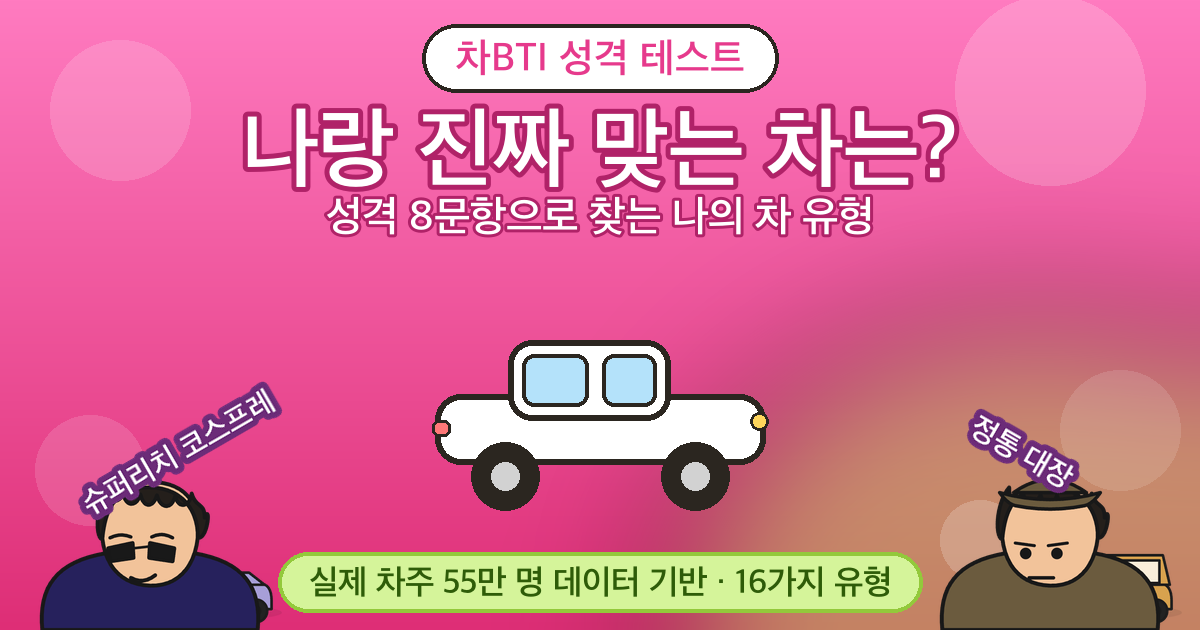
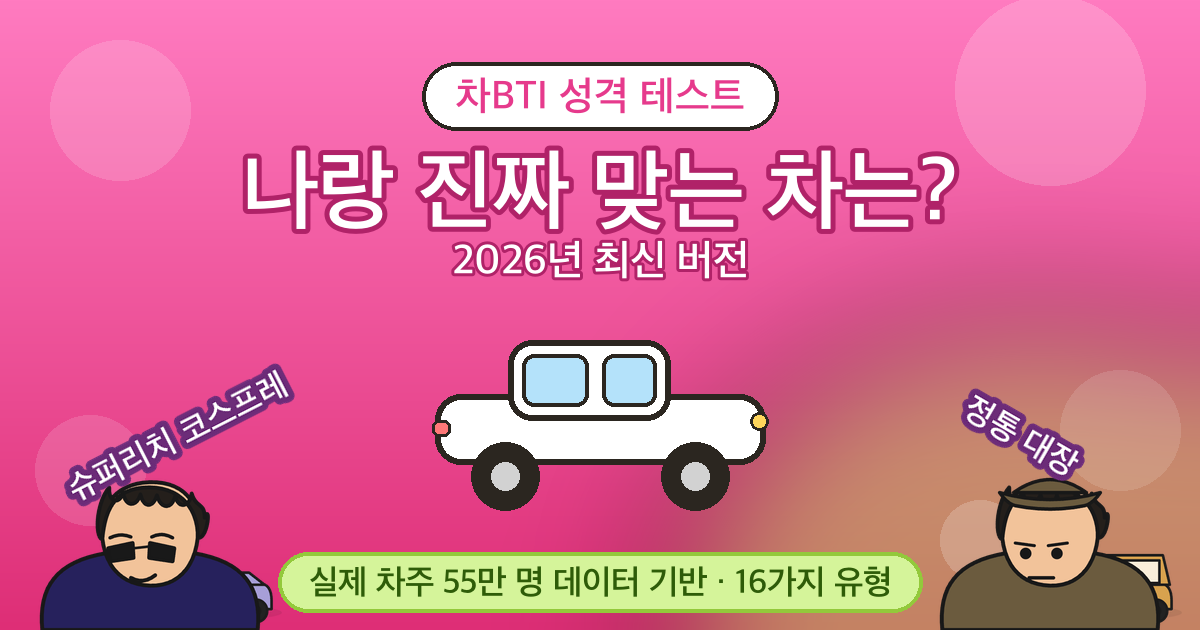
Add files via upload

Changed region(s): [[0.185, 0.0302, 0.8017, 0.4524], [0.0308, 0.573, 0.2467, 0.8444], [0.8017, 0.6032, 0.925, 0.7841]]

diff --git a/index.html b/index.html
@@ -6,17 +6,17 @@
 <title>차BTI · 나랑 맞는 차 찾기</title>
 <!-- 카카오톡/SNS 공유 미리보기(썸네일) -->
 <meta property="og:type" content="website"/>
-<meta property="og:url" content="https://chabti-test-comm.netlify.app/"/>
+<meta property="og:url" content="https://prnd-ops.github.io/comm-chabti/"/>
 <meta property="og:title" content="차BTI · 나랑 진짜 맞는 차는?"/>
 <meta property="og:description" content="성격 8문항으로 찾는 내 차 유형! 실제 차주 55만 명 데이터 기반 🚗 16가지 중 나는?"/>
-<meta property="og:image" content="https://chabti-test-comm.netlify.app/og.png?v=1"/>
+<meta property="og:image" content="https://prnd-ops.github.io/comm-chabti/og.png?v=4"/>
 <meta property="og:image:width" content="1200"/>
 <meta property="og:image:height" content="630"/>
 <meta property="og:image:type" content="image/png"/>
 <meta name="twitter:card" content="summary_large_image"/>
 <meta name="twitter:title" content="차BTI · 나랑 진짜 맞는 차는?"/>
 <meta name="twitter:description" content="성격 8문항으로 찾는 내 차 유형! 실제 차주 55만 명 데이터 기반"/>
-<meta name="twitter:image" content="https://chabti-test-comm.netlify.app/og.png?v=1"/>
+<meta name="twitter:image" content="https://prnd-ops.github.io/comm-chabti/og.png?v=4"/>
 <link rel="stylesheet" href="https://cdn.jsdelivr.net/gh/orioncactus/pretendard@v1.3.9/dist/web/static/pretendard.css"/>
 <link rel="preconnect" href="https://fonts.gstatic.com" crossorigin/>
 <link rel="stylesheet" href="https://fonts.googleapis.com/css2?family=Gaegu:wght@400;700&family=Black+Han+Sans&family=Jua&display=swap"/>
@@ -281,7 +281,7 @@ function landing(){
   +'<div style="text-align:center;margin:24px 0 22px"><span class="badge">📊 실제 차주 55만 명 데이터 기반</span></div>'
   +'<div class="ctawrap" style="display:flex;gap:9px;align-items:stretch">'
   +'<button class="cta glowcta" style="flex:1" onclick="start()">🚗 테스트 시작하기 →</button>'
-  +'<button onclick="shareInvite()" aria-label="공유하기" style="flex-shrink:0;width:62px;border:none;background:#FF85B8;color:#fff;font-family:var(--uiB);font-weight:700;cursor:pointer;border-bottom:6px dashed #D6347E;display:flex;flex-direction:column;align-items:center;justify-content:center;gap:2px;line-height:1.05"><svg viewBox="0 0 24 24" width="22" height="22" fill="none" stroke="currentColor" stroke-width="2.2" stroke-linecap="round" stroke-linejoin="round"><path d="M12 4V15"/><path d="M8 8l4-4 4 4"/><path d="M8 11H6a2 2 0 0 0-2 2v6a2 2 0 0 0 2 2h12a2 2 0 0 0 2-2v-6a2 2 0 0 0-2-2h-2"/></svg><span style="font-size:12px">공유</span></button>'
+  +'<button onclick="shareInvite()" aria-label="공유하기" style="flex-shrink:0;width:62px;border:none;background:#FF85B8;color:#7a2752;font-family:var(--uiB);font-weight:700;cursor:pointer;border-bottom:6px dashed #D6347E;display:flex;flex-direction:column;align-items:center;justify-content:center;gap:2px;line-height:1.05"><svg viewBox="0 0 24 24" width="22" height="22" fill="none" stroke="currentColor" stroke-width="2.2" stroke-linecap="round" stroke-linejoin="round"><path d="M12 4V15"/><path d="M8 8l4-4 4 4"/><path d="M8 11H6a2 2 0 0 0-2 2v6a2 2 0 0 0 2 2h12a2 2 0 0 0 2-2v-6a2 2 0 0 0-2-2h-2"/></svg><span style="font-size:12px">공유</span></button>'
   +'</div>'
   +'<p class="sub" style="text-align:center;font-size:12px;margin:12px 0 0">이미 12,840명이 자기 차BTI를 찾았어요</p>';
 }
